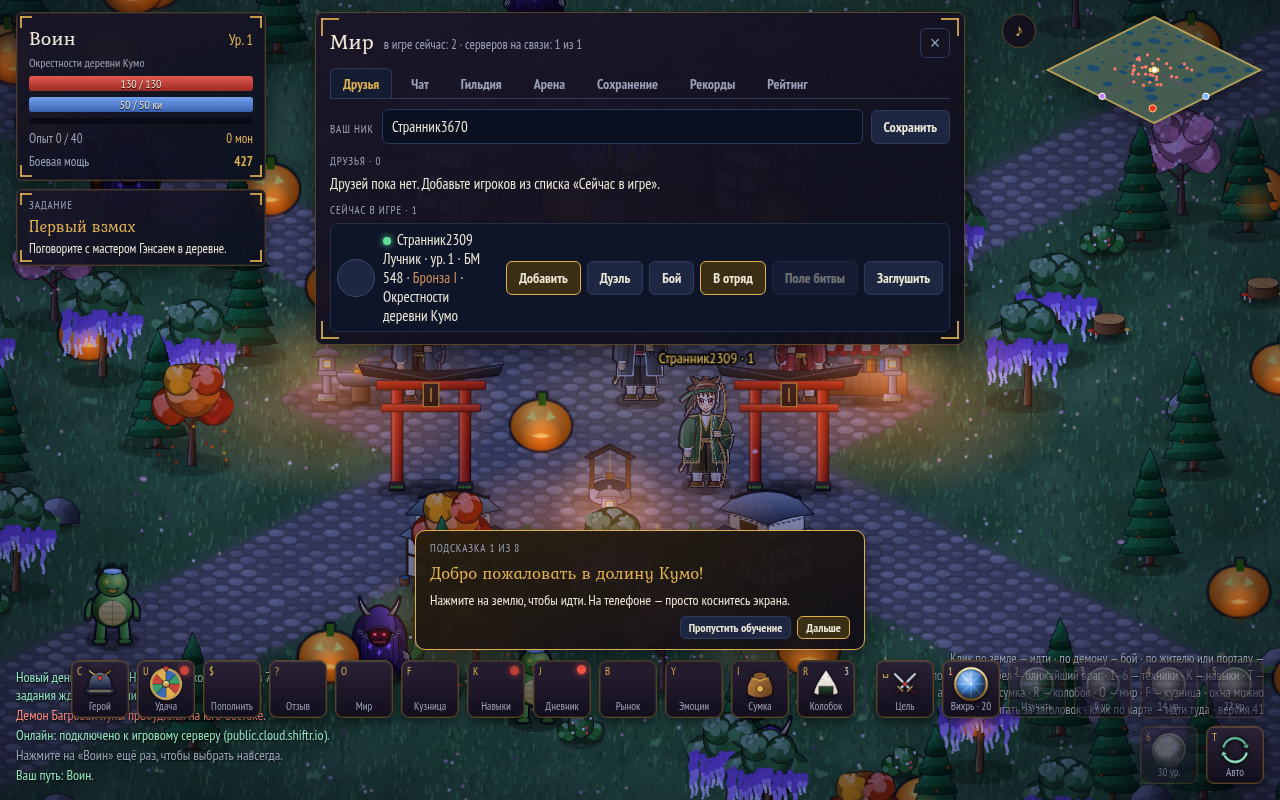
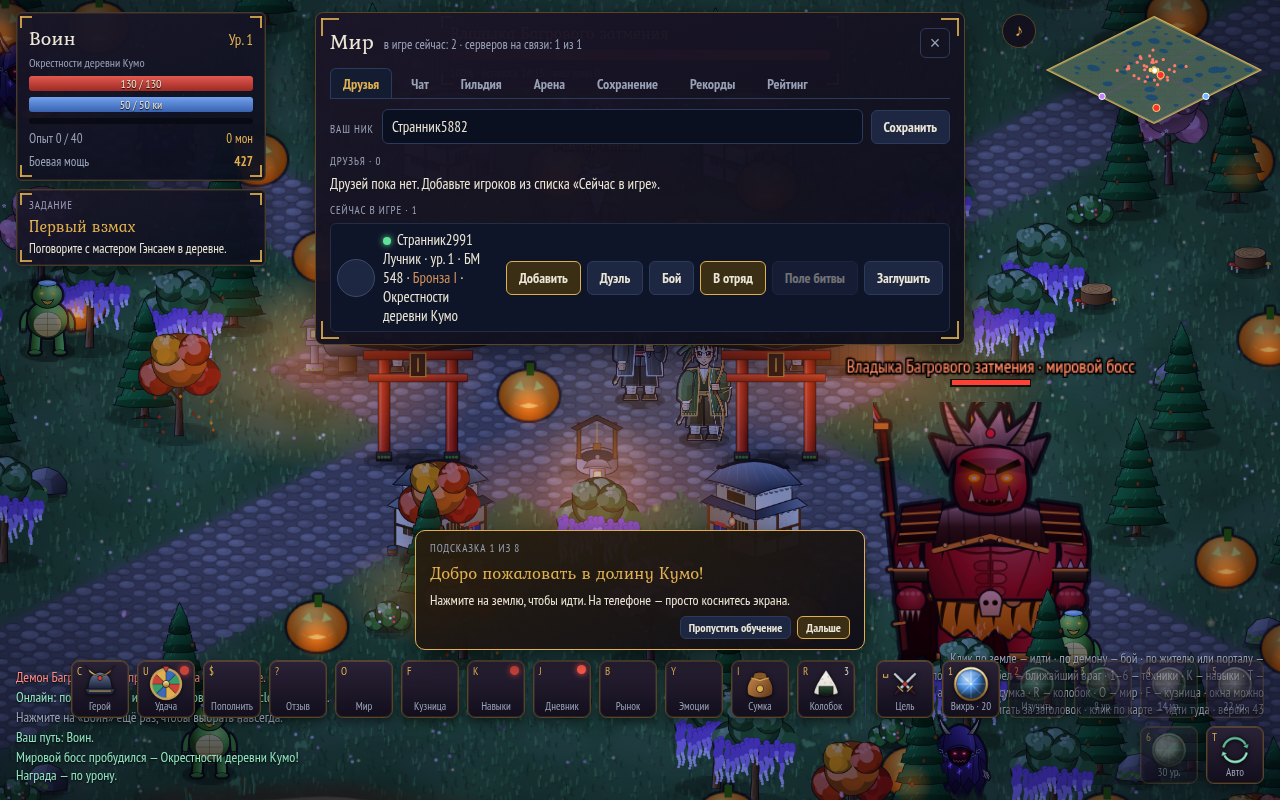
Проверка двумя браузерами

diff --git a/diag/e2e.md b/diag/e2e.md
@@ -1,6 +1,6 @@
 # Проверка двумя браузерами
 
-Время: 29.10.2026, 20:49:13
+Время: 29.10.2026, 21:59:35
 
 ## Браузер 1
 
@@ -13,7 +13,7 @@
 Друзей пока нет. Добавьте игроков из списка «Сейчас в игре».
 СЕЙЧАС В ИГРЕ · 1
 弓
-Странник2309
+Странник2991
 Лучник · ур. 1 · БМ 548 · Бронза I · Окрестности деревни Кумо
 Добавить
 Дуэль
@@ -25,19 +25,19 @@
 
 **Журнал игры:**
 ```
-Новый день в долине! Награда за вход (день 1 из 7) и свежие задания ждут в «Дневнике».
 Демон Багровой луны пробудился на юго-востоке.
 Онлайн: подключено к игровому серверу (public.cloud.shiftr.io).
 Нажмите на «Воин» ещё раз, чтобы выбрать навсегда.
 Ваш путь: Воин.
+Мировой босс пробудился — Окрестности деревни Кумо! Награда — по урону.
 ```
 
 **Консоль и сеть:**
 ```
-warning: [.WebGL-0xb2400196600]GL Driver Message (OpenGL, Performance, GL_CLOSE_PATH_NV, High): GPU stall due to ReadPixels
-warning: [.WebGL-0xb2400196600]GL Driver Message (OpenGL, Performance, GL_CLOSE_PATH_NV, High): GPU stall due to ReadPixels
-warning: [.WebGL-0xb2400196600]GL Driver Message (OpenGL, Performance, GL_CLOSE_PATH_NV, High): GPU stall due to ReadPixels
-warning: [.WebGL-0xb2400196600]GL Driver Message (OpenGL, Performance, GL_CLOSE_PATH_NV, High): GPU stall due to ReadPixels (this message will no longer repeat)
+warning: [.WebGL-0x171c02c90200]GL Driver Message (OpenGL, Performance, GL_CLOSE_PATH_NV, High): GPU stall due to ReadPixels
+warning: [.WebGL-0x171c02c90200]GL Driver Message (OpenGL, Performance, GL_CLOSE_PATH_NV, High): GPU stall due to ReadPixels
+warning: [.WebGL-0x171c02c90200]GL Driver Message (OpenGL, Performance, GL_CLOSE_PATH_NV, High): GPU stall due to ReadPixels
+warning: [.WebGL-0x171c02c90200]GL Driver Message (OpenGL, Performance, GL_CLOSE_PATH_NV, High): GPU stall due to ReadPixels (this message will no longer repeat)
 ws open wss://public.cloud.shiftr.io/
 ws sent 1 frames to wss://public.cloud.shiftr.io/
 ws sent 5 frames to wss://public.cloud.shiftr.io/
@@ -55,7 +55,7 @@ ws sent 20 frames to wss://public.cloud.shiftr.io/
 Друзей пока нет. Добавьте игроков из списка «Сейчас в игре».
 СЕЙЧАС В ИГРЕ · 1
 剣
-Странник3670
+Странник5882
 Воин · ур. 1 · БМ 427 · Бронза I · Окрестности деревни Кумо
 Добавить
 Дуэль
@@ -67,9 +67,9 @@ ws sent 20 frames to wss://public.cloud.shiftr.io/
 
 **Журнал игры:**
 ```
-Новый день в долине! Награда за вход (день 1 из 7) и свежие задания ждут в «Дневнике».
 Демон Багровой луны пробудился на юго-востоке.
 Онлайн: подключено к игровому серверу (public.cloud.shiftr.io).
+Мировой босс пробудился — Окрестности деревни Кумо! Награда — по урону.
 Нажмите на «Лучник» ещё раз, чтобы выбрать навсегда.
 Ваш путь: Лучник.
 ```
